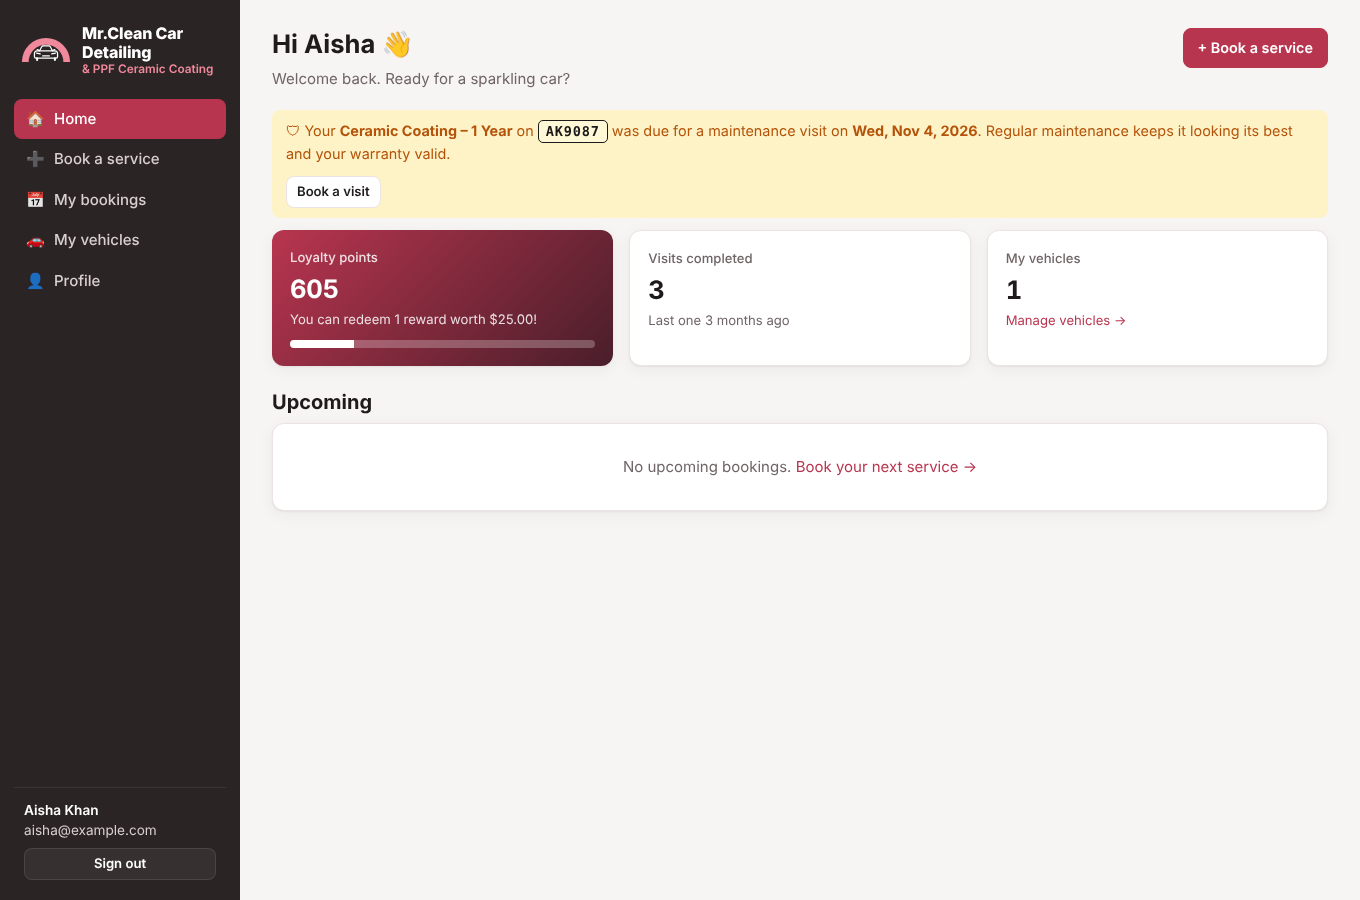
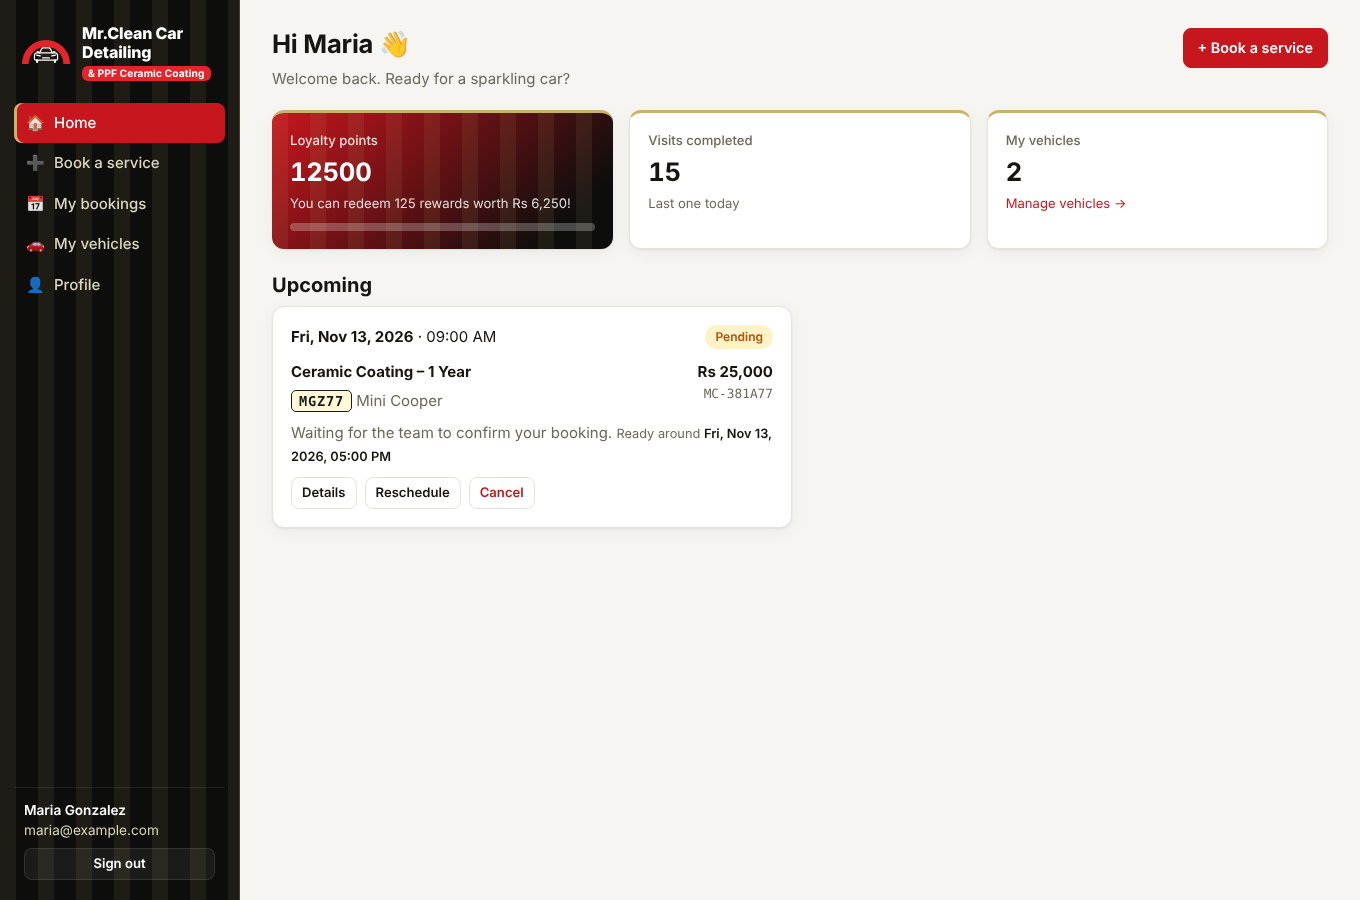
Theme: black and gold with red, from the shop door sign
- Black sidebar and sign-in panel with gold stripes, red arch logo, red
  tagline pill, gold accents; red primary buttons
- Dark mode: black with gold primary
- Logo and favicon in red on black with a gold ring
- Contrast fixes (loyalty card value, success buttons in dark mode)

Claude-Session: https://claude.ai/code/session_01ReGSbA7G1KVQFHsG1y9uKL

diff --git a/public/css/style.css b/public/css/style.css
@@ -1,15 +1,19 @@
-/* Mr.Clean brand: rose pink + warm charcoal, taken from the shop sign. */
+/* Mr.Clean brand, from the shop door sign: black with gold stripes, red arch and red tagline. */
 :root {
-  --bg: #f7f4f4;
+  --bg: #f6f5f1;
   --surface: #ffffff;
-  --surface-2: #faf7f7;
-  --border: #ebe3e4;
-  --text: #1f1a1b;
-  --muted: #6f6466;
-  --primary: #b8354f;
+  --surface-2: #faf9f5;
+  --border: #e7e3d6;
+  --text: #16150f;
+  --muted: #6b675a;
+  --primary: #c8161e;
   --primary-ink: #ffffff;
-  --primary-soft: #fbe9ed;
-  --brand-pink: #f0899b;
+  --primary-soft: #fde8e8;
+  --red: #e3242b;
+  --gold: #c9b26b;
+  --gold-strong: #a08a45;
+  --gold-soft: #f4efdc;
+  --black: #0d0d0c;
   --blue: #1d4ed8;
   --blue-soft: #dbeafe;
   --success: #15803d;
@@ -20,25 +24,29 @@
   --danger-soft: #fee2e2;
   --info: #6d28d9;
   --info-soft: #ede9fe;
-  --sidebar: #2b2425;
-  --sidebar-ink: #d9cfd0;
+  --sidebar: #0d0d0c;
+  --sidebar-ink: #ddd6c1;
+  --stripes: repeating-linear-gradient(90deg, rgba(201, 178, 107, 0.09) 0 16px, transparent 16px 38px);
   --radius: 12px;
-  --shadow: 0 1px 2px rgba(43, 36, 37, 0.06), 0 4px 16px rgba(43, 36, 37, 0.05);
+  --shadow: 0 1px 2px rgba(13, 13, 12, 0.06), 0 4px 16px rgba(13, 13, 12, 0.05);
   --font: system-ui, -apple-system, 'Segoe UI', Roboto, 'Helvetica Neue', Arial, sans-serif;
   color-scheme: light;
 }
 
 @media (prefers-color-scheme: dark) {
   :root {
-    --bg: #161213;
-    --surface: #211b1c;
-    --surface-2: #1b1617;
-    --border: #3a3032;
-    --text: #f1e9ea;
-    --muted: #b3a5a8;
-    --primary: #f0899b;
-    --primary-ink: #2a0d14;
-    --primary-soft: #3d1e25;
+    --bg: #0b0b0a;
+    --surface: #151513;
+    --surface-2: #1b1a17;
+    --border: #2e2b22;
+    --text: #f2efe6;
+    --muted: #a9a291;
+    /* black & gold in the dark theme; red stays for the logo and tagline */
+    --primary: #d9c27a;
+    --primary-ink: #0d0d0c;
+    --primary-soft: #2c2716;
+    --gold-strong: #d9c27a;
+    --gold-soft: #2c2716;
     --blue: #8ab4ff;
     --blue-soft: #16264a;
     --success: #4ade80;
@@ -49,7 +57,7 @@
     --danger-soft: #3a1414;
     --info: #a78bfa;
     --info-soft: #251b45;
-    --sidebar: #120e0f;
+    --sidebar: #070707;
     --shadow: 0 1px 2px rgba(0, 0, 0, 0.4);
     color-scheme: dark;
   }
@@ -79,7 +87,8 @@ code, .mono { font-family: ui-monospace, SFMono-Regular, Menlo, Consolas, monosp
 /* ---------- Layout ---------- */
 .layout { display: grid; grid-template-columns: 240px 1fr; min-height: 100vh; }
 .sidebar {
-  background: var(--sidebar);
+  background: var(--stripes), var(--sidebar);
+  border-right: 1px solid rgba(201, 178, 107, 0.25);
   color: var(--sidebar-ink);
   padding: 20px 14px;
   position: sticky;
@@ -94,7 +103,7 @@ code, .mono { font-family: ui-monospace, SFMono-Regular, Menlo, Consolas, monosp
 .brand .logo svg, .logo svg { display: block; width: 100%; height: auto; }
 .brand-text { display: flex; flex-direction: column; line-height: 1.2; min-width: 0; }
 .brand-text b { font-size: 1rem; font-weight: 800; letter-spacing: -0.01em; }
-.brand-text small { color: var(--brand-pink); font-size: 0.74rem; font-weight: 600; }
+.brand-text small { align-self: flex-start; margin-top: 4px; background: var(--red); color: #fff; font-size: 0.7rem; font-weight: 700; padding: 1px 8px; border-radius: 6px; letter-spacing: 0.01em; }
 .brand-badge { align-self: flex-start; margin-top: 5px; font-size: 0.64rem; background: rgba(255, 255, 255, 0.12); color: #fff; padding: 1px 8px; border-radius: 99px; font-weight: 700; letter-spacing: 0.06em; }
 .topbar .logo { width: 34px; }
 .nav a {
@@ -294,7 +303,7 @@ dl.kv dd { margin: 0; font-weight: 500; }
 .vehicle-card { display: flex; flex-direction: column; gap: 10px; }
 .vehicle-card .top { display: flex; justify-content: space-between; align-items: flex-start; gap: 10px; }
 .vehicle-card .name { font-weight: 700; font-size: 1.05rem; }
-.loyalty { background: linear-gradient(135deg, #b8354f, #4a1e2a); color: #fff; border: 0; }
+.loyalty { background: var(--stripes), linear-gradient(135deg, #c8161e, #0d0d0c 85%); color: #fff; border: 0; }
 .loyalty .label, .loyalty .sub { color: rgba(255, 255, 255, 0.85); }
 .progress { background: rgba(255, 255, 255, 0.25); border-radius: 99px; height: 8px; overflow: hidden; margin-top: 8px; }
 .progress > div { background: #fff; height: 100%; }
@@ -329,20 +338,20 @@ dl.kv dd { margin: 0; font-weight: 500; }
 
 /* ---------- Landing / auth ---------- */
 .landing { min-height: 100vh; display: grid; grid-template-columns: 1.2fr 1fr; }
-.hero { background: radial-gradient(120% 90% at 85% 0%, #5a2a35 0%, transparent 60%), linear-gradient(160deg, #1d1718 0%, #2b2425 60%, #3a2c2e 100%); color: #fff; padding: 48px 56px; display: flex; flex-direction: column; gap: 28px; }
+.hero { background: linear-gradient(90deg, rgba(13,13,12,.92) 0%, rgba(13,13,12,.72) 55%, rgba(13,13,12,.45) 100%), repeating-linear-gradient(90deg, #a99d65 0 22px, #0d0d0c 22px 52px); color: #fff; padding: 48px 56px; display: flex; flex-direction: column; gap: 28px; }
 .hero .brand { padding: 0; gap: 16px; }
 .hero .brand .logo { width: 96px; }
 .hero .brand-text b { font-size: 1.5rem; }
 .hero .brand-text small { font-size: 1rem; }
 .hero h1 { font-size: 2.5rem; letter-spacing: -0.02em; }
-.hero h1 em { font-style: normal; color: var(--brand-pink); }
-.hero p.lead { font-size: 1.08rem; color: #e3d7d9; max-width: 560px; }
+.hero h1 em { font-style: normal; color: var(--gold); }
+.hero p.lead { font-size: 1.08rem; color: #e6e1d2; max-width: 560px; }
 .hero .svc { display: grid; grid-template-columns: repeat(2, minmax(0, 1fr)); gap: 12px; max-width: 660px; }
 .hero .svc div { background: rgba(255, 255, 255, 0.06); border: 1px solid rgba(255, 255, 255, 0.12); border-radius: 12px; padding: 14px 16px; }
 .hero .svc b { display: flex; justify-content: space-between; gap: 10px; }
-.hero .svc b span:last-child { color: var(--brand-pink); white-space: nowrap; }
-.hero .svc small { color: #cbbcbf; display: block; margin-top: 4px; }
-.hero .meta { margin-top: auto; color: #cbbcbf; font-size: 0.9rem; }
+.hero .svc b span:last-child { color: var(--gold); white-space: nowrap; }
+.hero .svc small { color: #c9c3b1; display: block; margin-top: 4px; }
+.hero .meta { margin-top: auto; color: #c9c3b1; font-size: 0.9rem; }
 .auth { display: flex; align-items: center; justify-content: center; padding: 40px 24px; }
 .auth .card { width: 100%; max-width: 420px; padding: 28px; }
 .tabs { display: flex; gap: 4px; background: var(--surface-2); padding: 4px; border-radius: 10px; margin-bottom: 20px; border: 1px solid var(--border); }
@@ -371,7 +380,7 @@ dl.kv dd { margin: 0; font-weight: 500; }
 .badge.overdue, .badge.expired { background: var(--danger-soft); color: var(--danger); border-color: transparent; }
 .badge.cat { background: var(--primary-soft); color: var(--primary); border-color: transparent; }
 .protections { display: grid; grid-template-columns: repeat(auto-fill, minmax(260px, 1fr)); gap: 12px; }
-.protection { border: 1px solid var(--border); border-left: 4px solid var(--primary); border-radius: 10px; padding: 12px 14px; background: var(--surface); display: flex; flex-direction: column; gap: 6px; }
+.protection { border: 1px solid var(--border); border-left: 4px solid var(--gold-strong); border-radius: 10px; padding: 12px 14px; background: var(--surface); display: flex; flex-direction: column; gap: 6px; }
 .protection.expired { border-left-color: var(--border); opacity: 0.75; }
 .protection .p-head { display: flex; justify-content: space-between; align-items: flex-start; gap: 8px; }
 .protection .p-name { font-weight: 700; }
@@ -419,8 +428,23 @@ body.role-employee a[href^="#/customers"] { pointer-events: none; color: inherit
 /* Shop tablet (/staff): only the PIN pad */
 .staff-brand { display: none; }
 .staff-mode .hero { display: none; }
-.staff-mode .landing { grid-template-columns: 1fr; background: var(--sidebar); }
+.staff-mode .landing { grid-template-columns: 1fr; background: repeating-linear-gradient(90deg, rgba(201, 178, 107, 0.22) 0 22px, transparent 22px 52px), #0d0d0c; }
 .staff-mode .auth { min-height: 100vh; }
 .staff-mode .staff-brand { display: flex; justify-content: center; color: var(--text); padding: 0 0 18px; }
-.staff-mode .staff-brand .logo { width: 64px; background: #2b2425; border-radius: 12px; padding: 8px; }
+.staff-mode .staff-brand .logo { width: 64px; background: #0d0d0c; border-radius: 12px; padding: 8px; border: 1px solid var(--gold); }
 .inv-actions { flex-wrap: nowrap; }
+
+/* Black & gold details */
+.nav a.active { box-shadow: inset 3px 0 0 var(--gold); }
+.card-head h2, .page-head h1 { letter-spacing: -0.01em; }
+.stat .value { color: var(--text); }
+.grid > .card.stat { border-top: 3px solid var(--gold); }
+.hero .svc div { border-color: rgba(201, 178, 107, 0.35); background: rgba(13, 13, 12, 0.55); }
+.hero .brand-text small { font-size: 0.9rem; padding: 2px 10px; }
+.chip { background: var(--gold-soft); color: var(--gold-strong); }
+.badge.cat { background: var(--gold-soft); color: var(--gold-strong); }
+.topbar .logo { background: #0d0d0c; border-radius: 8px; padding: 4px; }
+.sidebar .brand-text small { white-space: nowrap; font-size: 0.64rem; padding: 1px 6px; }
+.loyalty .value { color: #fff; }
+.grid > .card.stat.loyalty { border-top: 3px solid var(--gold); }
+@media (prefers-color-scheme: dark) { .btn-success { color: #052e16; } }

diff --git a/public/js/common.js b/public/js/common.js
@@ -6,7 +6,7 @@
 
   // Logo mark: the pink arch with a car from the Mr.Clean sign.
   const LOGO = `<svg xmlns="http://www.w3.org/2000/svg" viewBox="6 28 108 58" aria-hidden="true">
-    <path d="M10 82a50 50 0 0 1 100 0h-14a36 36 0 0 0-72 0z" fill="#f0899b"/>
+    <path d="M10 82a50 50 0 0 1 100 0h-14a36 36 0 0 0-72 0z" fill="#e3242b"/>
     <g fill="none" stroke="#fff" stroke-width="2.6" stroke-linecap="round" stroke-linejoin="round">
       <path d="M46.5 59 51 50.5c.6-1.2 1.6-1.8 2.9-1.8h12.2c1.3 0 2.3.6 2.9 1.8l4.5 8.5"/>
       <path d="M36 71v-6.5c0-3.4 2.3-5.6 5.6-5.8h36.8c3.3.2 5.6 2.4 5.6 5.8V71c0 1.8-1.2 3-3 3H39c-1.8 0-3-1.2-3-3z"/>

diff --git a/README.md b/README.md
@@ -7,6 +7,8 @@ The booking and management web app for **Mr.Clean Car Detailing & PPF Ceramic Co
 - **Inventory**: chemicals, polishes, coatings, PPF film and supplies, deducted automatically as jobs are completed.
 - **Customer panel** (`/app`): customers register, add their cars, book services, follow the job while it's in the shop, and see their car's history and warranties.
 
+The look follows the shop sign: black with gold stripes, the red arch logo and the red “& PPF Ceramic Coating” tagline (with a black-and-gold dark mode).
+
 It is built with Node.js, Express and SQLite (the `node:sqlite` module that ships with Node). The frontend is plain HTML, CSS and JS, so there is no build step and only one npm dependency.
 
 ![Vehicle history](docs/screenshots/admin-vehicle-history.png)
